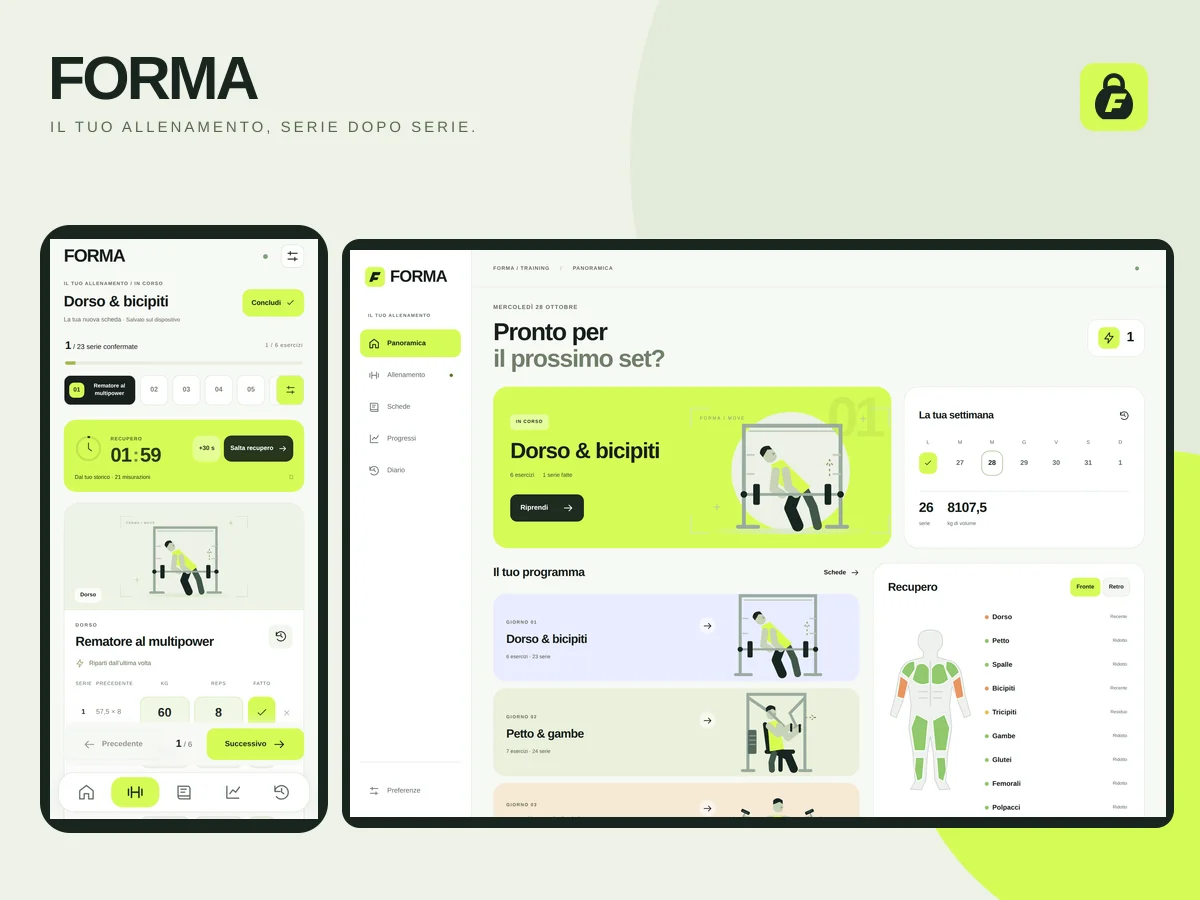
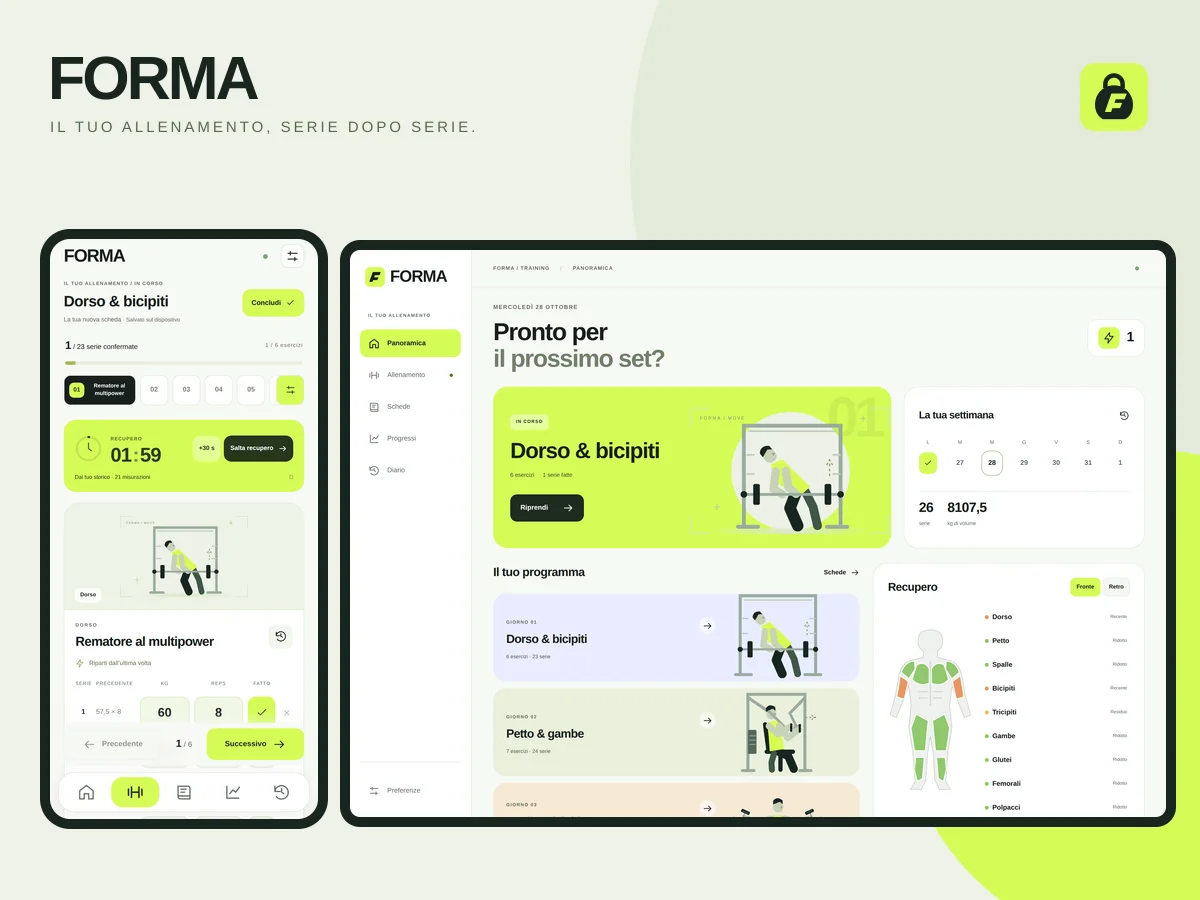
Align preview screen rounding with concentric mockup frames

Changed region(s): [[0.9558, 0.4978, 0.9867, 0.9022], [0.0308, 0.9022, 0.2775, 0.9333], [0.0308, 0.2489, 0.2775, 0.28]]

diff --git a/README.md b/README.md
@@ -21,7 +21,7 @@
   <a href="docs/TECHNICAL.md">Documentazione tecnica</a>
 </p>
 
-![FORMA su telefono e desktop, con dati dimostrativi](docs/images/forma-overview.webp)
+![FORMA su telefono e desktop, con dati dimostrativi](docs/images/forma-overview.webp?v=rounded-2)
 
 ## 📖 Panoramica
 
